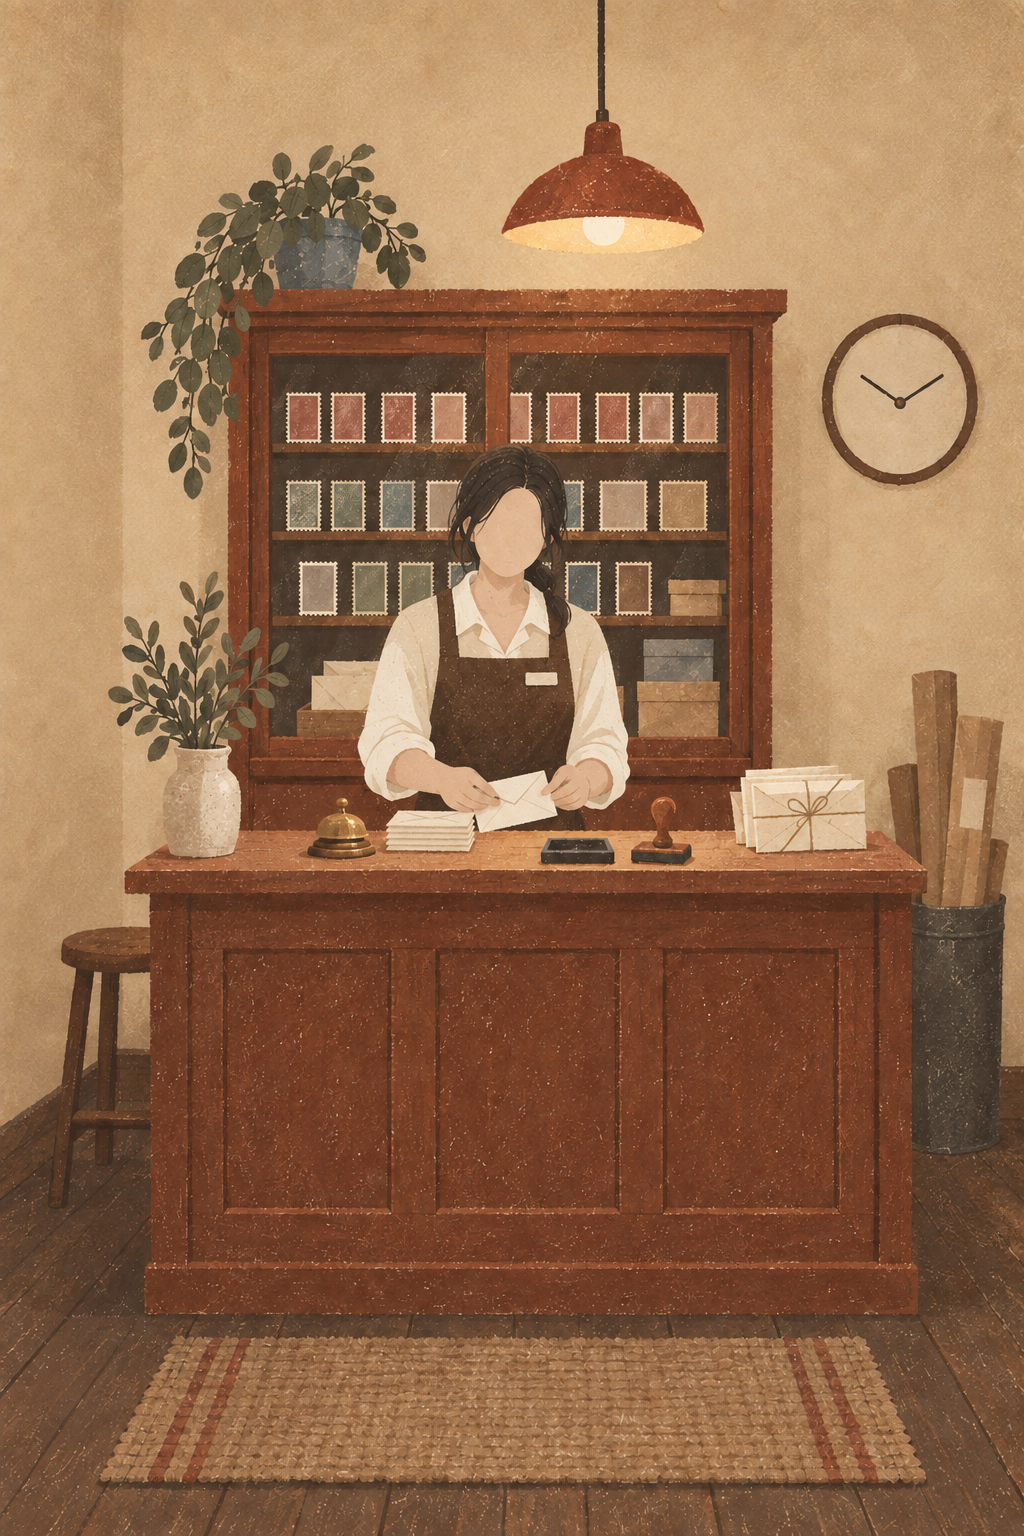
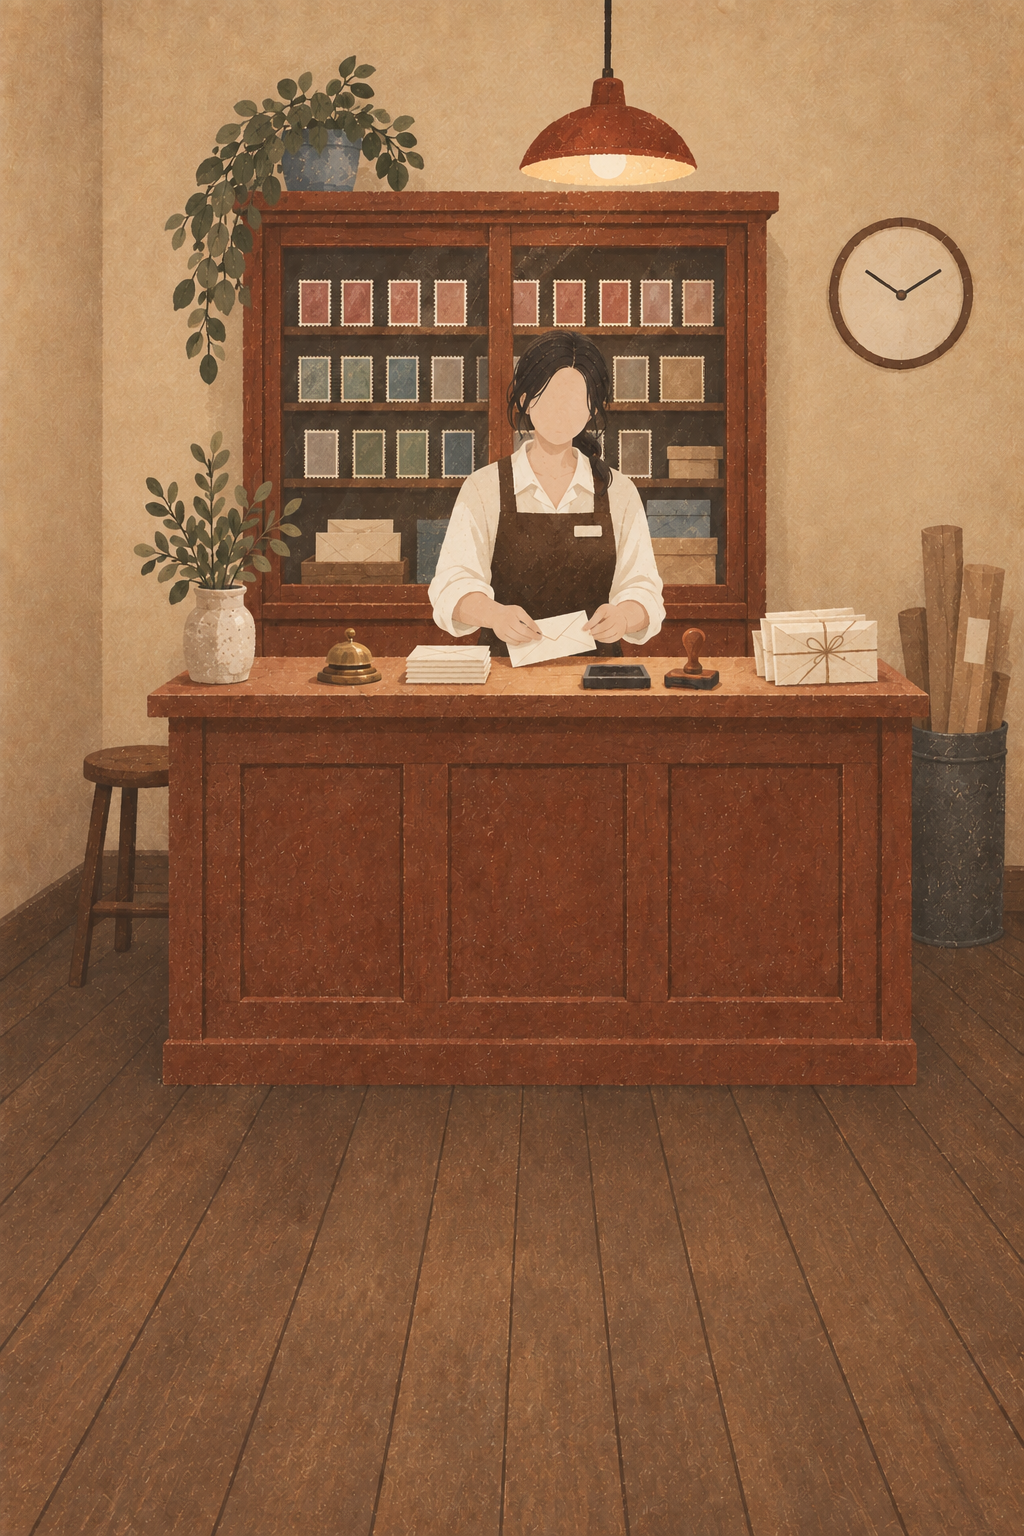
Door: only the leaf swings; a real doorway, and the wheel stays in front
The door turned with its right post and top band glued on, and opening it
showed the room as a flat cut-out. Now only the leaf ("leaf" spot) swings,
turning from an eye 28% down it. Behind it the room is redrawn for the
doorstep view and set in a doorway with its head, far jamb and step, in the
cover's own paint and grain and drawn from the same eye. A warm spill falls
on the step as it opens. The bicycle's front wheel, which overlapped the
hinge side, is cut out to stay in front, and painted out of the leaf's face.

Claude-Session: https://claude.ai/code/session_01RCDJfz583Au16AwyawzMBo

diff --git a/web/index.html b/web/index.html
@@ -59,14 +59,16 @@
 .ld-room { background: #D9934E radial-gradient(120% 90% at 50% 100%, #F6CB86, #D9934E 70%, #B9743A) center / cover no-repeat; }
 /* the door itself: a slab with some thickness, turning inward on hinges at its back, left edge. Its face is cut from
    the picture; as it opens, its hinge-side edge turns towards you (the user found a flat door read as paper). The
-   thickness (--dt) and the eye's distance (--dp) follow the door's size (loader.js), so it turns alike on every screen */
+   thickness (--dt) and the eye's distance (--dp) follow the door's size (loader.js), so it turns alike on every screen.
+   The eye is on the hinge line, 28% down the door, 3.2 door-widths off: the room behind (scene.py doorway()) is drawn
+   from that same eye, with the doorway's head, far jamb and step round it */
 /* (it darkens as it turns away from the light through a black sheet on it fading in, not a brightness filter: a filter
    under the iris's clip had the whole screen rasterised again on every frame) */
 /* (at rest the same kind of transform as open, so every browser turns it on the compositor: function by function) */
 /* (no preserve-3d: WebKit turned a 3D-nested slab the wrong way. The face and the edge are flat pieces, each carrying
    the whole placement, the same eye and the same hinge, so they turn as one) */
 .ld-door { --a: 0deg; --dt: 4px; --dtn: -4px; --dp: 700px; }
-.ld-door-face, .ld-door-edge { position: absolute; top: 0; height: 100%; transform-origin: 0 50% var(--dtn);
+.ld-door-face, .ld-door-edge { position: absolute; top: 0; height: 100%; transform-origin: 0 28% var(--dtn);
   transition: transform .75s cubic-bezier(.45,0,.2,1); will-change: transform; }
 .ld-door-face { left: 0; width: 100%; background-repeat: no-repeat; transform: perspective(var(--dp)) rotateY(var(--a)); }
 .ld-door-face::after { content: ""; position: absolute; inset: 0; background: #000; opacity: 0; transition: opacity .75s ease; will-change: opacity; }
@@ -85,6 +87,12 @@
   opacity: 0; transition: opacity 1.6s ease; will-change: opacity; }
 .ld-bloom { border-radius: 50%; background: radial-gradient(closest-side, rgba(250,214,150,.42), rgba(250,214,150,0));
   opacity: 0; transition: opacity 1.6s ease; pointer-events: none; }
+/* the door open, the room's light falls out over the step and onto the ground */
+.ld-spill { border-radius: 50%; background: radial-gradient(closest-side, rgba(246,196,120,.5), rgba(246,196,120,0)); opacity: 0;
+  transition: opacity .75s ease; pointer-events: none; }
+#loader.opening .ld-spill { opacity: 1; }
+/* the bicycle's front wheel, which leans over the door's hinge side: it stays where it is as the door swings */
+.ld-wheel { background: no-repeat 0 0 / 100% 100%; pointer-events: none; }
 .ld-glow { border-radius: 50%; background: radial-gradient(closest-side, rgba(233,169,92,.42), rgba(233,169,92,0)); opacity: 0; transition: opacity 1.4s ease; pointer-events: none; }
 /* in turn: the postmark strikes, then the lamps come up slowly, then the line at the foot */
 #loader.ready .ld-lamp { opacity: 1; transition-delay: .45s; }
@@ -184,7 +192,7 @@
 <div id="loader" aria-busy="true">
   <div class="ld-scene">
     <img class="ld-cover" alt="">
-    <i class="ld-room"></i><i class="ld-door"><i class="ld-door-face"><i class="ld-lamp"></i></i><i class="ld-door-edge"></i></i><i class="ld-bloom"></i><i class="ld-glow"></i>
+    <i class="ld-room"></i><i class="ld-door"><i class="ld-door-face"><i class="ld-lamp"></i></i><i class="ld-door-edge"></i></i><i class="ld-bloom"></i><i class="ld-glow"></i><i class="ld-spill"></i><i class="ld-wheel"></i>
     <b class="ld-sign" aria-hidden="true"><span class="ld-pct">0%</span><span class="ld-open">营业中</span></b>
     <div class="ld-cat"></div>
     <div class="ld-mail"><img class="ld-letter" alt=""></div><i class="ld-ring"></i><i class="ld-ring"></i>

diff --git a/web/loader.js b/web/loader.js
@@ -99,7 +99,7 @@ const Loader = (() => {
     signOn(w, h);
     // the door's thickness and the eye's distance, in step with its size (a door is ~1/16 as thick as it is wide; a
     // fixed distance looked from far off on a phone's small door, so it only narrowed like a card)
-    const door = $('.ld-door'), dw = pic.spots.door[2] * w;
+    const door = $('.ld-door'), dw = (pic.spots.leaf || pic.spots.door)[2] * w;
     if (door) {
       const t = (dw * 0.062).toFixed(1);
       door.style.setProperty('--dt', t + 'px'); door.style.setProperty('--dtn', -t + 'px'); door.style.setProperty('--dp', (dw * 3.2).toFixed(0) + 'px');
@@ -178,13 +178,19 @@ const Loader = (() => {
       load(img, e.cover + v);
       if (e.paper) root.style.setProperty('--paper', e.paper);
       const sp = e.spots;
-      put($('.ld-room'), sp.door); put($('.ld-door'), sp.door);
+      const leaf = sp.leaf || sp.door;                     // the leaf alone: its frame and the doorstep stay on the wall
+      put($('.ld-room'), leaf); put($('.ld-door'), leaf);
       if (e.room) {                                        // the lit room behind it, decoded before the scene shows
         const src = e.room.file + `?v=${e.roomv}`;
         load(new Image(), src); $('.ld-room').style.backgroundImage = `url("${src}")`;
       }
-      const door = $('.ld-door-face'), [dx, dy, dw, dh] = sp.door;   // the door's face: its part of the picture
-      Object.assign(door.style, { backgroundImage: `url("${e.cover + v}")`, backgroundSize: `${100 / dw}% ${100 / dh}%`,
+      const door = $('.ld-door-face'), [dx, dy, dw, dh] = leaf;      // the door's face: its part of the picture
+      if (e.leaf) {                                        // the leaf with the bicycle's wheel painted out; the wheel stays in front
+        const lv = `?v=${e.leaf.v}`, wheel = $('.ld-wheel');
+        door.style.backgroundImage = `url("${e.leaf.face + lv}")`; door.style.backgroundSize = '100% 100%';
+        load(new Image(), e.leaf.face + lv); load(new Image(), e.leaf.wheel + lv);
+        put(wheel, leaf); wheel.style.backgroundImage = `url("${e.leaf.wheel + lv}")`;
+      } else Object.assign(door.style, { backgroundImage: `url("${e.cover + v}")`, backgroundSize: `${100 / dw}% ${100 / dh}%`,
         backgroundPosition: `${dx / (1 - dw) * 100}% ${dy / (1 - dh) * 100}%` });
       if (e.glass && sp.glass) {                          // the glass, lit from inside when the post office opens (in the door, so it turns with it)
         const [gx, gy, gw, gh] = sp.glass, lamp = $('.ld-lamp'), mask = `url("${e.glass.file}?v=${e.glass.v}")`;
@@ -193,6 +199,7 @@ const Loader = (() => {
         put($('.ld-bloom'), grow(sp.glass, 0.9));
       }
       put($('.ld-glow'), [dx - dw * 0.7, dy + dh * 0.82, dw * 2.4, dh * 0.34]);
+      put($('.ld-spill'), [dx - dw * 0.25, dy + dh * 0.9, dw * 1.6, dh * 0.2]);
       // the cat: its first pose only, sitting still on its spot as part of the picture (the user asked it not to move)
       const cat = $('.ld-cat'), [cx, cy, ch] = sp.cat;
       if (cat && e.cat && e.cat.length) {

diff --git a/dailystamp/scene.py b/dailystamp/scene.py
@@ -73,17 +73,25 @@ resting on the empty paper with no shadow:
 and at the far right, well apart, one small closed white envelope lying flat, seen from the front, with a tiny brick-red
 stamp in its corner.
 Nothing else in the picture."""),
-    "room": ("portrait, 1024x1536", ["ref-room-5.png", "ref-room-1.png", "cover.raw.png"], """The inside of the small post
-office whose front door is the THIRD attached picture, seen at eye height straight through that open door.
-Redraw the FIRST attached picture almost exactly as it is: the same glass-fronted wooden cabinet with its rows of stamps,
-the same wooden counter with the small brass bell, the ink pad and the rubber stamp on it, the same round clock with no
-numerals, the same brick-red pendant lamp, the same plants, the same rug and floor. Add only this:
-- the clerk from the SECOND attached picture (faceless, dark hair tied back, white shirt, dark brown apron) stands
-  behind the counter in front of the cabinet, seen from the waist up (the counter hides the rest), both hands on the
-  counter sorting a letter
-Composition: the picture will be shown cropped to a tall narrow doorway whose left quarter is hidden by the open door,
-so the clerk and the middle of the counter sit between 45% and 75% of the picture's width, and everything that
-matters stays between 15% and 90% of its height."""),
+    # (the second drawing of the room: the first was seen from its middle, with a rug far off at the foot, so through
+    # the doorway its floor met the doorstep like a wall. This one is seen from the doorstep, the floor running in from
+    # under your feet; the first is kept in scene/_work/room.v1.raw.png)
+    "room": ("portrait, 1024x1536", ["_work/room.v1.raw.png", "cover.raw.png"], """The inside of the small post office whose
+front door is the SECOND attached picture, as you see it standing on the doorstep of that door, looking straight in.
+Keep everything in the room exactly as in the FIRST attached picture: the same glass-fronted wooden cabinet with its
+rows of stamps, the same faceless clerk (dark hair tied back, white shirt, dark brown apron) behind the same wooden
+counter sorting a letter, the small brass bell, the ink pad and the rubber stamp on it, the same round clock with no
+numerals, the same brick-red pendant lamp, the same plants, the same warm light. Change only where we stand:
+- we stand just outside the door, eyes at standing height: the eye level (horizon) is about 28% down from the top of
+  the picture, so we look slightly down onto the counter top and the floor
+- the floor is warm brown wooden floorboards running straight away from us, their joins converging to one point on
+  the eye level at 60% of the picture's width; the boards come right up to the bottom edge of the picture, where they
+  are closest and widest; NO rug, nothing lying on the near floor
+- the counter stands a few steps in: its top at about 42% down, its foot on the floor at about 66% down; the clerk and
+  the middle of the counter sit between 45% and 75% of the picture's width
+- the room fills the whole picture: no door frame, no doorway, no wall edges round the picture
+Composition: the picture will be shown cropped to a tall narrow doorway (its middle 60% of the width), and the left
+third of that is hidden by the open door, so nothing that matters is left of 40% of the width."""),
 }
 STYLES = {"room": ROOM_STYLE}
 
@@ -107,13 +115,76 @@ SPOTS_RAW = {
     "bell": [482, 590],
     "cat": [128, 926, 178],
     "glass": [726, 425, 136, 194],                         # the door's four panes, with a little frame round them
+    # the leaf alone, inside its frame: the frame's top band above it and its right post (past the dark gap at the
+    # latch side) stay on the wall when it swings; on the left the leaf meets the wall itself; the doorstep lies below
+    "leaf": [692, 396, 197, 489],
 }
 
 
 # the room is cut to the doorway's shape, full height, placed so ROOM_X (the middle of the counter and the clerk, px of
-# the raw drawing, measured by hand) sits 62% across it: the open door hides about the doorway's left quarter
-ROOM_X = 500
+# the raw drawing) sits ROOM_AT across it: the open door hides about the doorway's left third
+ROOM_X = 512
+ROOM_AT = 0.5
 ROOM_W = 480                                               # a phone's doorway is ~222 device px wide, a desktop's ~195 css
+# Seen through the doorway, the room lies beyond the wall's thickness. The eye is where the page's door turns from
+# (web/index.html: the hinge line, EYE_Y down the leaf) at EYE_D leaf-widths off; the wall is WALL_D leaf-widths deep.
+# So the room shows a little smaller inside the opening, and round it you see the doorway's own sides in perspective:
+# its head above, the far jamb on the right (the near one is edge-on from the hinge line), the step's top below.
+EYE_Y, EYE_D, WALL_D = 0.28, 3.2, 0.33
+
+
+def doorway(room: Image.Image, cover: Image.Image) -> Image.Image:
+    """The picture that fills the opening when the door swings: the room, set back by the wall's depth, framed by the
+    doorway's head, far jamb and step, painted with the cover's own wall and step (shaded as they turn from the light)."""
+    lx, ly, lw, lh = SPOTS_RAW["leaf"]
+    W, H = ROOM_W, round(ROOM_W * lh / lw)
+    s = EYE_D / (EYE_D + WALL_D)                            # how much smaller the far side of the doorway looks
+    ey = EYE_Y * H
+    x1, y0, y1 = s * W, ey * (1 - s), ey + s * (H - ey)     # the far side's rectangle (x0 = 0: the eye is on the hinge line)
+    # the room, cut to the opening's shape round ROOM_X, then drawn into the far rectangle
+    w = round(room.height * lw / lh)
+    rx = int(min(max(0, ROOM_X - w * ROOM_AT), room.width - w))
+    inner = room.crop((rx, 0, rx + w, room.height)).resize((round(x1), round(y1 - y0)), Image.LANCZOS)
+    out = Image.new("RGB", (W, H))
+    out.paste(inner, (0, round(y0)))
+    a = np.asarray(out).astype(np.float32)
+    c = cover.convert("RGB")
+    def painted(box, colour_box=None):
+        """A surface in the cover's own paint: the colour of colour_box (or box), with the brush grain of box laid
+        over it, mirrored to fill the picture at the cover's scale (stretching it drew streaks)"""
+        p = np.asarray(c.crop(box)).astype(np.float32)
+        base = np.median(np.asarray(c.crop(colour_box or box)).reshape(-1, 3).astype(np.float32), 0)
+        g = p.mean(-1); g = g - ndimage.gaussian_filter(g, 6)            # the grain alone, round zero
+        k = W / lw                                                        # cover px -> doorway px
+        g = np.asarray(Image.fromarray(g.astype(np.float32), "F").resize((max(1, round(g.shape[1] * k)), max(1, round(g.shape[0] * k))), Image.BILINEAR))
+        reps = (H // g.shape[0] + 2, W // g.shape[1] + 2)
+        g = np.tile(np.block([[g, g[:, ::-1]], [g[::-1], g[::-1, ::-1]]]), (reps[0] // 2 + 1, reps[1] // 2 + 1))[:H, :W]
+        return base[None, None, :] + g[..., None] * grain
+    grain = 0.9
+    wall = painted((920, 400, 990, 540))                    # the stuccoed wall right of the door
+    grain = 0.45
+    step = painted((650, 318, 1000, 366), (lx + 10, ly + lh + 3, lx + lw - 10, ly + lh + 12))   # the step's colour, the lintel's stone grain
+    yy, xx = np.mgrid[0:H, 0:W].astype(np.float32)
+    # which side of the doorway each pixel shows: above the far rectangle the head, right of it the far jamb, below it
+    # the step; in the two right-hand corners the lines from the opening's corners to the far rectangle's split them
+    k = (W - xx) / max(1.0, W - x1)                         # 1 at the far rectangle's side, 0 at the opening's edge
+    head = (yy < y0) & ((xx <= x1) | (yy < y0 * k))
+    sill = (yy > y1) & ((xx <= x1) | (yy > H - (H - y1) * k))
+    jamb = (xx > x1) & ~head & ~sill
+    warm = np.array([1.0, 0.93, 0.82], np.float32)
+    shade_j = (0.80 + 0.12 * (W - xx) / max(1, W - x1))[..., None] * warm   # the far jamb, lit a little more deeper in
+    a = np.where(jamb[..., None], wall * np.clip(shade_j, 0, 1), a)
+    a = np.where(head[..., None], wall * 0.70 * warm, a)
+    a = np.where(sill[..., None], step * 0.96, a)
+    # a soft shadow where the room meets the doorway's sides (the corners the light doesn't reach)
+    dist = np.minimum.reduce([np.where(xx <= x1, x1 - xx, 1e4), np.where(yy >= y0, yy - y0, 1e4), np.where(yy <= y1, y1 - yy, 1e4)])
+    inside = (xx <= x1) & (yy >= y0) & (yy <= y1)
+    ao = np.where(inside, 1 - 0.22 * np.exp(-dist / (0.03 * W)), 1)
+    a = a * ao[..., None]
+    # the step's inner edge, a thin dark line where the floor goes in under the doorway
+    edge = sill & (yy < y1 + 2.2)
+    a[edge] *= 0.78
+    return Image.fromarray(np.clip(a, 0, 255).astype(np.uint8))
 
 
 def raw_path(key: str) -> str:
@@ -207,6 +278,29 @@ def glass(raw: Image.Image) -> Image.Image:
     return Image.fromarray(rgba, "RGBA")
 
 
+def wheel(raw: Image.Image):
+    """The bicycle's front wheel leans over the leaf's hinge side. Cut out as it is in the "leaf" box it stays put in
+    front of the door as it swings (wheel.webp, RGBA, the leaf box's size); the door's face (leaf.webp) has it painted
+    out with the door's own paint, mirrored from just right of it, so the leaf carries no piece of wheel away."""
+    x, y, w, h = SPOTS_RAW["leaf"]
+    a = np.asarray(raw.convert("RGB"))[y:y + h, x:x + w].copy()
+    f = a.astype(np.int16)
+    grey = ndimage.binary_opening((f[..., 0] - f[..., 1]) < 45, iterations=1)      # the door is red; tyre and wall aren't
+    lab, _ = ndimage.label(grey)
+    edge = set(lab[h // 2:, 0]) - {0}                      # only what comes in from the left edge, low down: the wheel
+    tyre = np.isin(lab, list(edge))
+    alpha = np.clip(ndimage.gaussian_filter(tyre.astype(np.float32), 0.6), 0, 1)     # soft, but no red rim of door
+    front = Image.fromarray(np.dstack([a, (alpha * 255).round().astype(np.uint8)]), "RGBA")
+    face = a.copy()
+    for r in range(h):
+        run = np.flatnonzero(ndimage.binary_dilation(tyre[r], iterations=4))
+        if len(run):
+            b = run.max() + 1
+            src = np.clip(2 * b - 1 - run, b, w - 1)
+            face[r, run] = a[r, src]
+    return Image.fromarray(face), front
+
+
 def sprites(raw: Image.Image, paper: np.ndarray):
     """The cat sheet cut into its pieces, left to right, each an RGBA picture on nothing. The cat's white fur is close to
     the paper, so the outline is found with a low threshold and then closed and filled: every piece is solid inside."""
@@ -242,6 +336,10 @@ def rebuild() -> None:
         gp = os.path.join(SCENE_DIR, "glass.webp")
         glass(Image.open(raw_path("cover"))).save(gp, quality=92, method=6)
         entry["glass"] = {"file": "scene/glass.webp", "v": int(os.path.getmtime(gp))}   # its own version: the cut may change
+        face, front = wheel(Image.open(raw_path("cover")))
+        face.save(os.path.join(SCENE_DIR, "leaf.webp"), quality=90, method=6)
+        front.save(os.path.join(SCENE_DIR, "wheel.webp"), quality=90, method=6)
+        entry["leaf"] = {"face": "scene/leaf.webp", "wheel": "scene/wheel.webp", "v": int(os.path.getmtime(gp))}
         print(f"cover {pic.size}, paper {entry['paper']}")
     if os.path.exists(raw_path("cat")):
         raw = Image.open(raw_path("cat"))
@@ -256,15 +354,12 @@ def rebuild() -> None:
         entry["catv"] = int(os.path.getmtime(raw_path("cat")))
         print("pieces", [(f["key"], f["w"], f["h"]) for f in files])
     if os.path.exists(raw_path("room")):
-        raw = Image.open(raw_path("room")).convert("RGB")
-        dw, dh = SPOTS_RAW["door"][2:]
-        w = round(raw.height * dw / dh)
-        x0 = int(min(max(0, ROOM_X - w * 0.62), raw.width - w))
-        room = raw.crop((x0, 0, x0 + w, raw.height)).resize((ROOM_W, round(ROOM_W * raw.height / w)), Image.LANCZOS)
-        room.save(os.path.join(SCENE_DIR, "room.webp"), quality=90, method=6)
+        room = doorway(Image.open(raw_path("room")).convert("RGB"), Image.open(raw_path("cover")))
+        rp = os.path.join(SCENE_DIR, "room.webp")
+        room.save(rp, quality=90, method=6)
         entry["room"] = {"file": "scene/room.webp", "w": room.width, "h": room.height}
-        entry["roomv"] = int(os.path.getmtime(raw_path("room")))
-        print(f"room {room.size} from x {x0}..{x0 + w}")
+        entry["roomv"] = int(os.path.getmtime(rp))
+        print(f"room {room.size}, set in its doorway")
     with open(os.path.join(SCENE_DIR, "index.json"), "w", encoding="utf-8") as fh:
         json.dump(entry, fh, ensure_ascii=False, indent=2)
 
